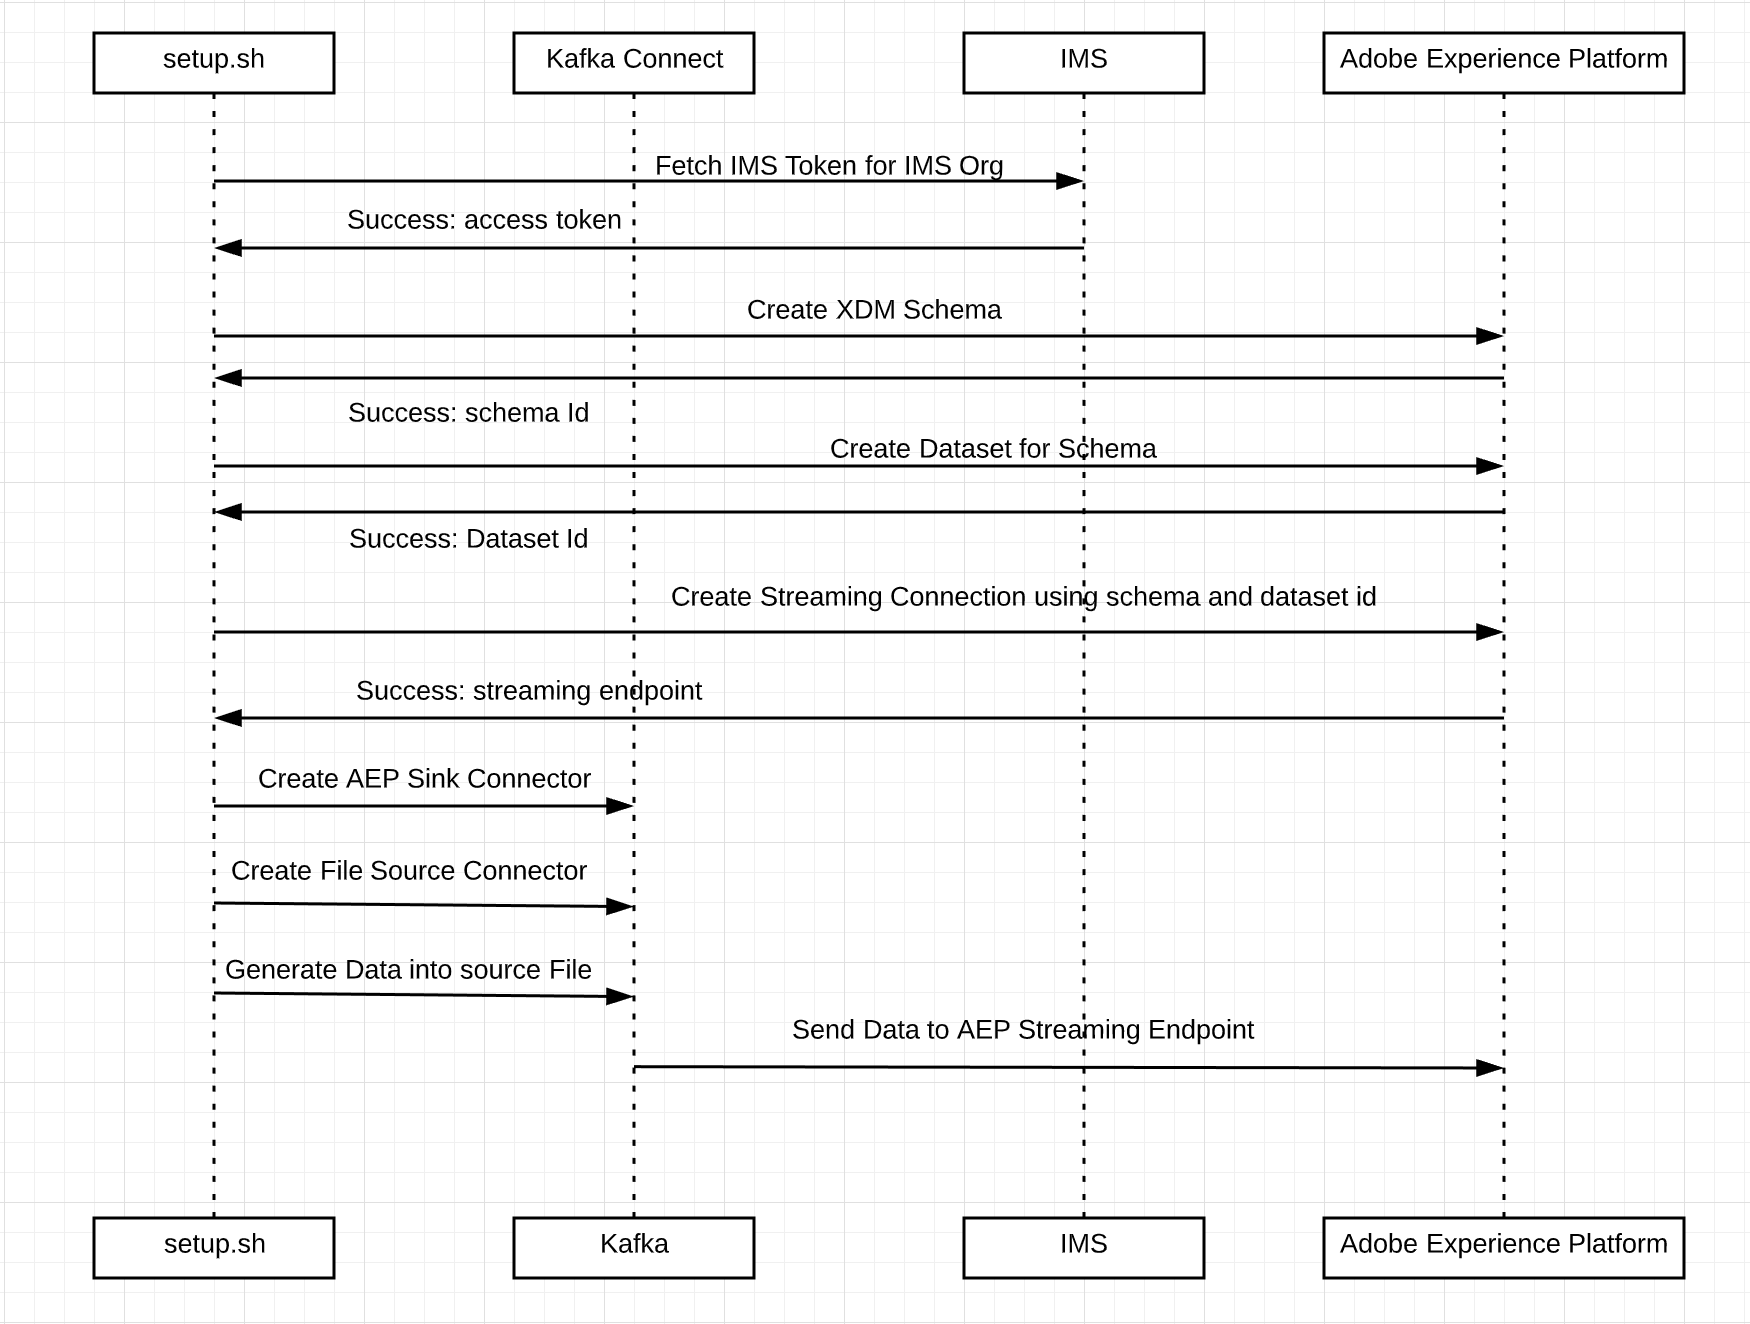
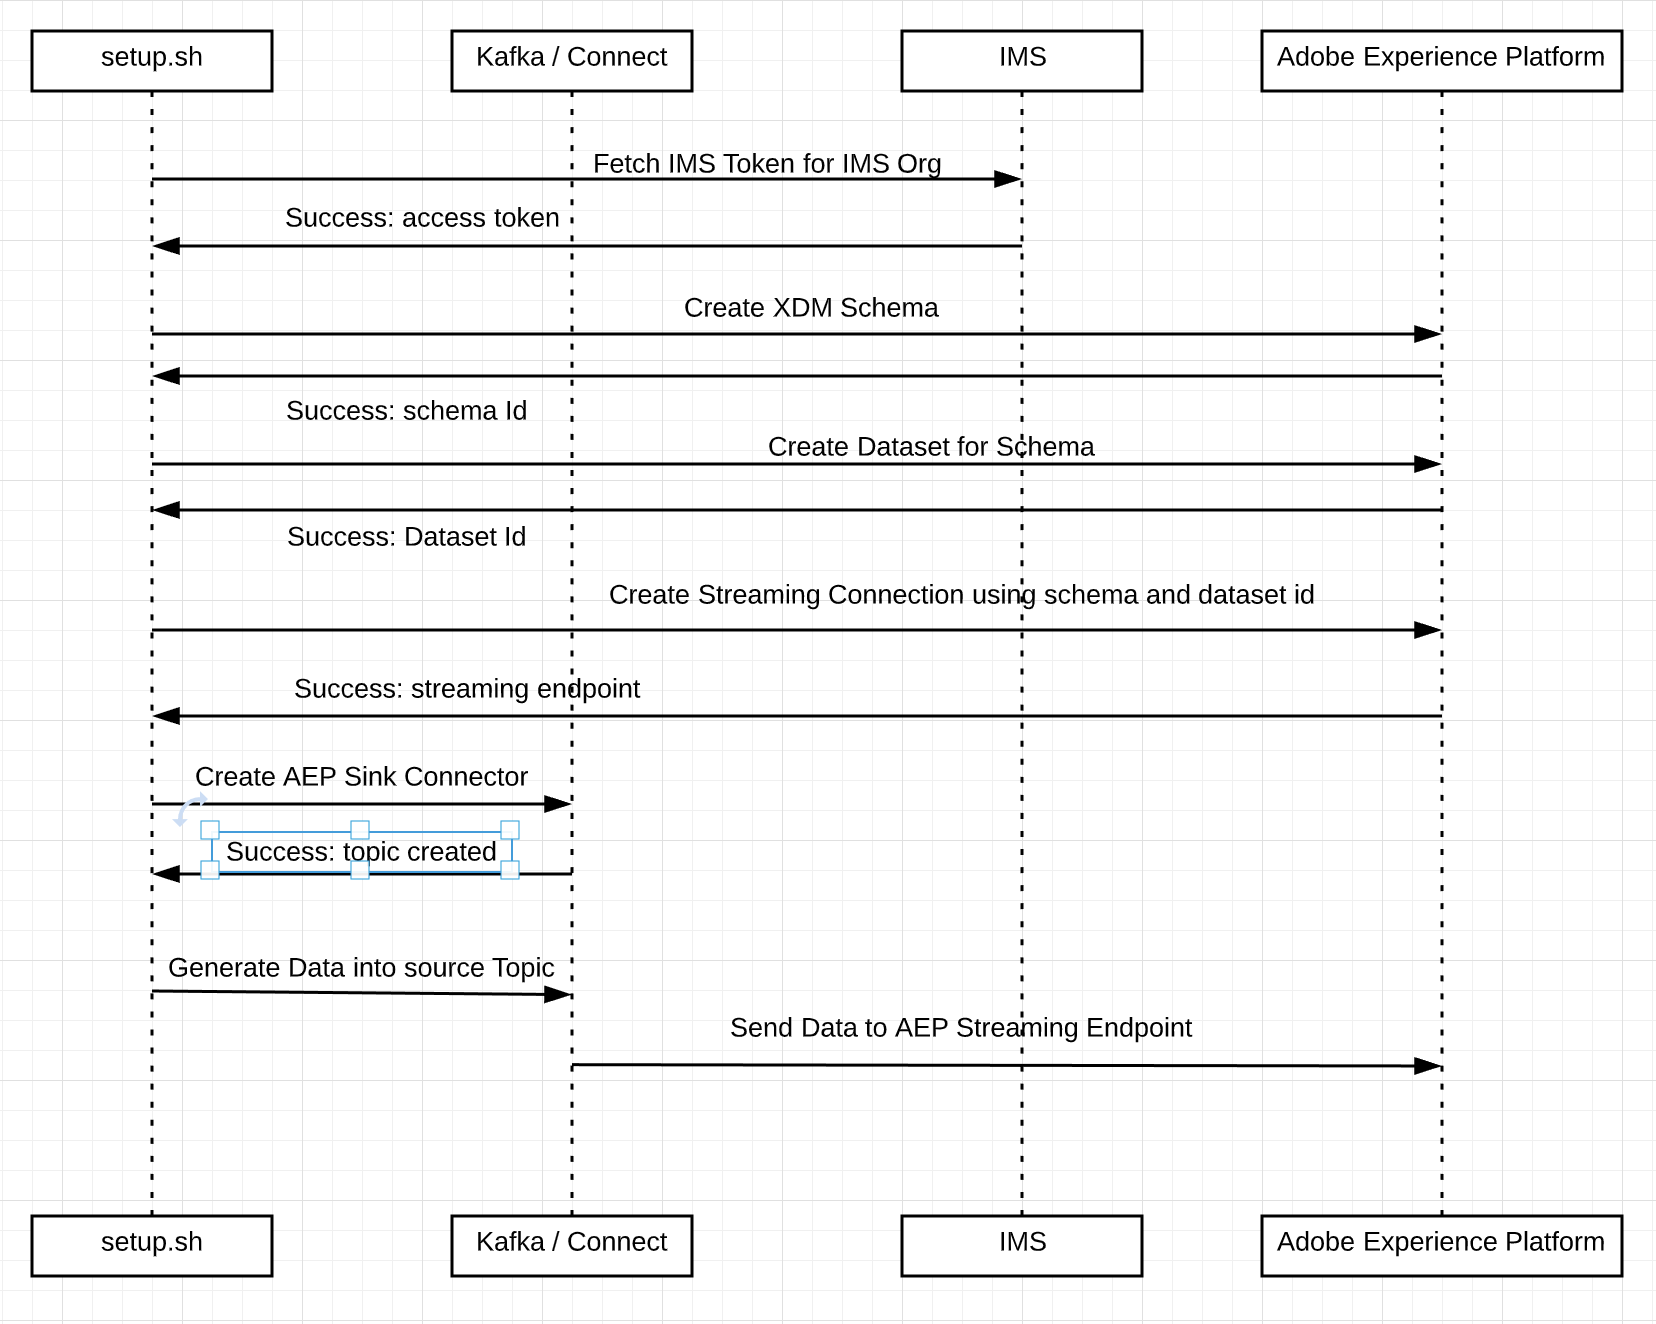
CORE-35288 Quick Start Script publish via kafka proxy | saving values for futuree runs

diff --git a/README.md b/README.md
@@ -20,27 +20,6 @@ AEP sink connector delivers data from Kafka topics to a registered endpoint of t
 
 ![AEP Sink Connector](./docs/resources/aep_sink_connector.png)
 
-#### Configuration Options
-
-The AEP connector is a uber jar containing all the classfiles and its third-party dependencies.
-To install the connector, drop the jar file into the plug in directory of Kafka connect installation.
-
-AEP Sink connector configurations can be supplied in the call register the connector.
-
-
-| Config Name                       | Description                                   | Default                                                 | Required | Example |
-|-----------------------------------|-----------------------------------------------|---------------------------------------------------------|----------|---------|
-| topics                            | comma separated list of topics                |                                                         | yes      |         |
-| connector.class                   | classname of impl                             | com.adobe.platform.streaming.sink.impl.AEPSinkConnector | yes      |         |
-| key.converter.schemas.enable      | enables conversion of schemas                 | false                                                   | no       |         |
-| value.converter.schemas.enable    | enables conversion of schemas                 | false                                                   | no       |         |
-| aep.endpoint                      | aep streaming endpoint url                    |                                                         | yes      |         |
-| aep.connection.auth.enabled       | required for authenticated streaming endpoint | false                                                   | no       |         |
-| aep.connection.auth.token.type    | always set to access_token                    | access_token                                            | no       |         |
-| aep.connection.auth.client.id     | IMS client id                                 |                                                         | no       |         |
-| aep.connection.auth.client.code   | IMS client code                               |                                                         | no       |         |
-| aep.connection.auth.client.secret | IME client secret                             |                                                         |          |         |
-
 #### Features
 
 * Seamlessly ingest events from your Kafka topic to Adobe Experience Platform
@@ -82,23 +61,32 @@ Enter Client Secret
 Enter JWT Token
 ***
 
-Making call to create schema https://platform.adobe.io/ with name Test Schema_2019_09_21_18_42_57
-Schema ID: https://ns.adobe.com/<tenant>/schemas/55f4ad0f534b3ffcbe18be78b01e0651
+Making call to create schema https://platform.adobe.io/ with name Streaming_test_profile_api-20190922211238
+Schema ID: https://ns.adobe.com/<tenant>/schemas/090d01896b3cbd72dc7defff1290eb99
 Data Set: ["@/dataSets/5d86d1a29ba7e11648cc3afb"]
-Streaming Connection: https://dcs-int.adobedc.net/collection/1e58b84cb62853b333b54980c45bdb40fc3bf80bc47022da0f76eececb2f9237
-AEP Sink Connector aep-sink-connector-2019_09_21_18_42_57
+Streaming Connection: https://dcs.adobedc.net/collection/1e58b84cb62853b333b54980c45bdb40fc3bf80bc47022da0f76eececb2f9237
+AEP Sink Connector aep-sink-connector-20190922211238
 Enter the number of Experience events to publish
 5
-Publishing 5 messages for Data set 5d86d1a29ba7e11648cc3afb and schema https://ns.adobe.com/<tenant>/schemas/55f4ad0f534b3ffcbe18be78b01e0651
+Publishing 5 messages for Data set 5d86d1a29ba7e11648cc3afb and schema https://ns.adobe.com/<tenant>/schemas/090d01896b3cbd72dc7defff1290eb99
 Published 5 messages
 ```
+This will also save the values for entities created in application.conf for running test multiple times with same values.
 
 #### Send data to Adobe with quick-start script
 In case the resources are already created then you can run only data generation script to send data to Adobe
+The values for IMS Org, SchemaID, data set id and topic should be stored in application.conf else it will prompt for missing values.
 ```
 cd scripts
-./generate_data.sh <schemaUrl> <datasetId> <count>
-Example: ./generate_data.sh https://ns.adobe.com/<tenant>/schemas/55f4ad0f534b3ffcbe18be78b01e0651 5d86d1a29ba7e11648cc3afb 500
+./generate_data.sh <count>
+
+Example: ./generate_data.sh 500
+IMS ORG: XYZ@AdobeOrg
+Schema ref: https://ns.adobe.com/<tenant>/schemas/090d01896b3cbd72dc7defff1290eb99
+Dataset ID: 5d86d1a29ba7e11648cc3afb
+Topic Name: connect-test-20190922211238
+Publishing 500 messages for Data set 5d86d1a29ba7e11648cc3afb and schema https://ns.adobe.com/<tenant>/schemas/090d01896b3cbd72dc7defff1290eb99
+Published 500 messages
 ```
 
 > Note: To debug logs you may use following command in different terminal

diff --git a/DEVELOPER_GUIDE.md b/DEVELOPER_GUIDE.md
@@ -11,6 +11,27 @@ The docker setup comes with a full stack of Kafka tools and utilities including 
 Once the docker is running, you should be able to test the entire setup using a rest api to insert the message into
 your local docker kafka topic.
 
+## Configuration Options
+
+The AEP connector is a uber jar containing all the classfiles and its third-party dependencies.
+To install the connector, drop the jar file into the plug in directory of Kafka connect installation.
+
+AEP Sink connector configurations can be supplied in the call register the connector.
+
+
+| Config Name                       | Description                                   | Default                                                 | Required | Example |
+|-----------------------------------|-----------------------------------------------|---------------------------------------------------------|----------|---------|
+| topics                            | comma separated list of topics                |                                                         | yes      |         |
+| connector.class                   | classname of impl                             | com.adobe.platform.streaming.sink.impl.AEPSinkConnector | yes      |         |
+| key.converter.schemas.enable      | enables conversion of schemas                 | false                                                   | no       |         |
+| value.converter.schemas.enable    | enables conversion of schemas                 | false                                                   | no       |         |
+| aep.endpoint                      | aep streaming endpoint url                    |                                                         | yes      |         |
+| aep.connection.auth.enabled       | required for authenticated streaming endpoint | false                                                   | no       |         |
+| aep.connection.auth.token.type    | always set to access_token                    | access_token                                            | no       |         |
+| aep.connection.auth.client.id     | IMS client id                                 |                                                         | no       |         |
+| aep.connection.auth.client.code   | IMS client code                               |                                                         | no       |         |
+| aep.connection.auth.client.secret | IME client secret                             |                                                         |          |         |
+
 ## Step-by-Step Workflow
 
 ### Build
